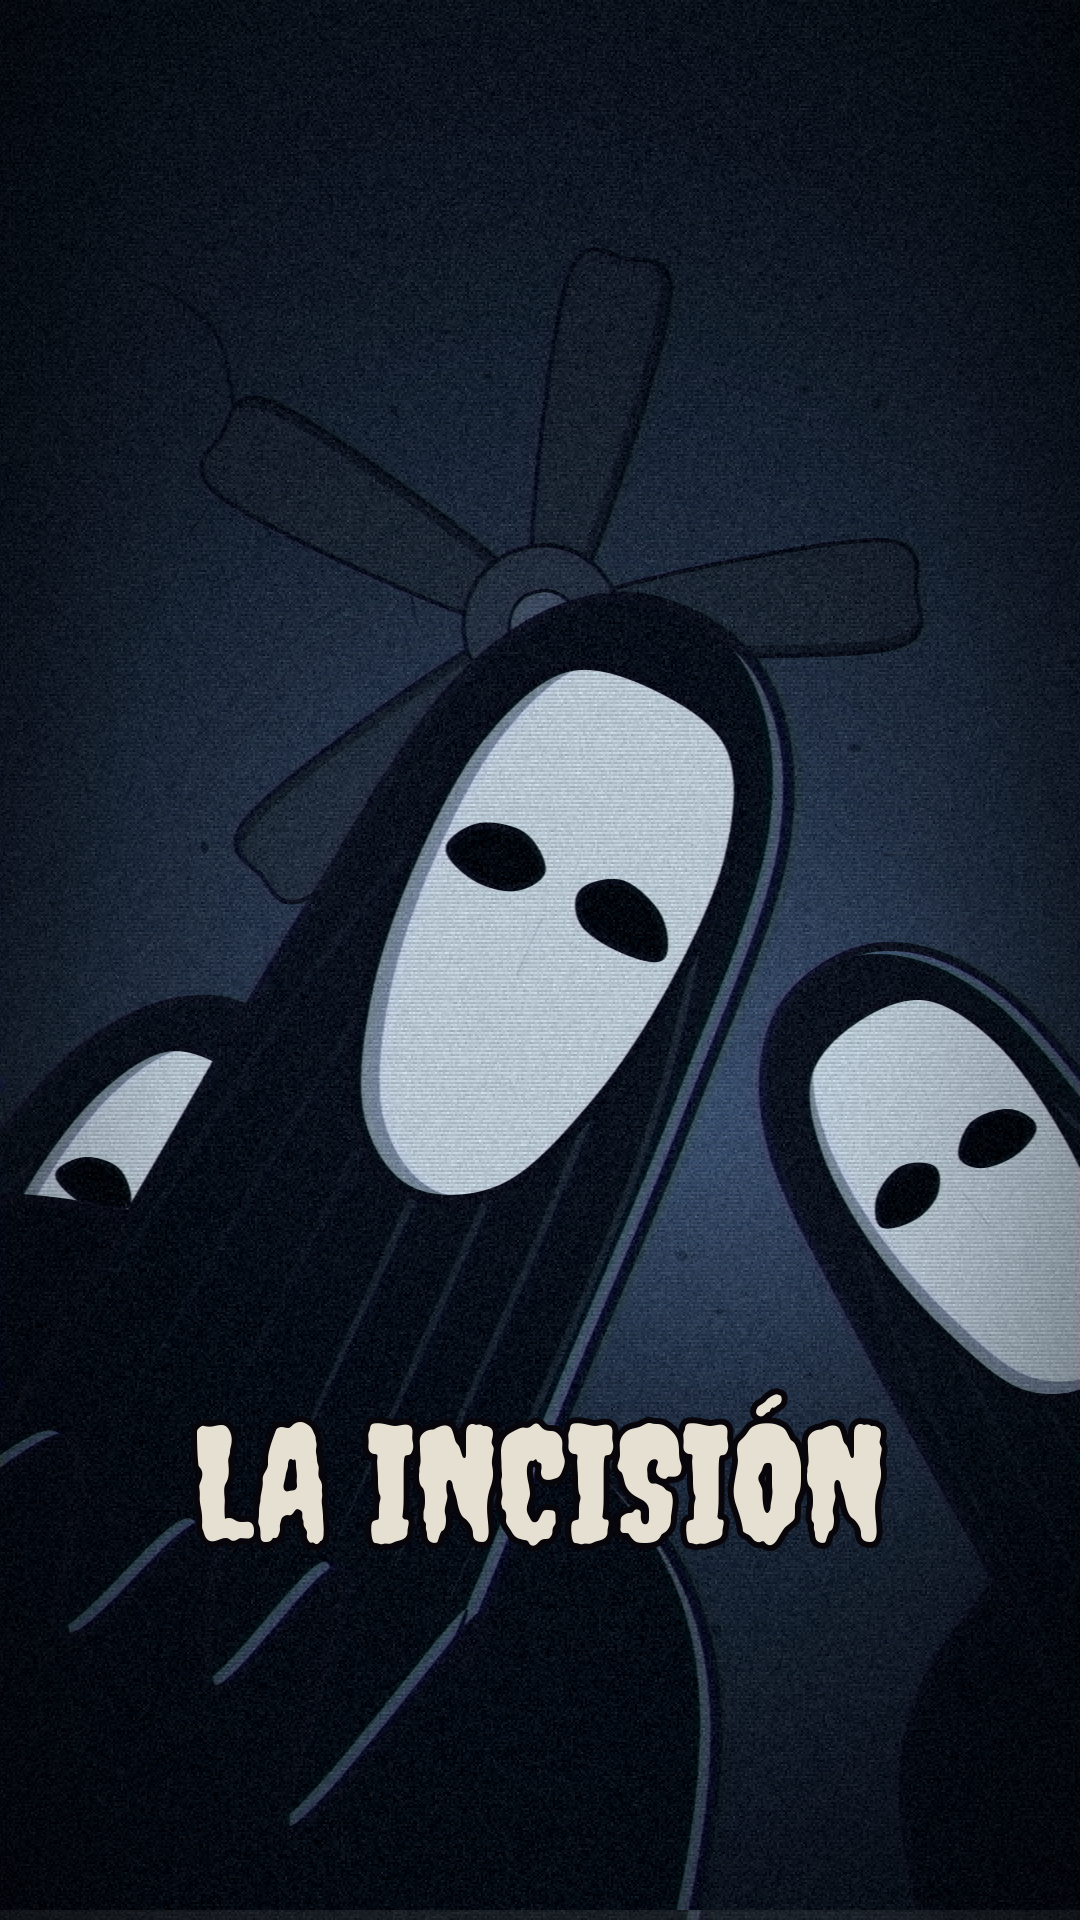
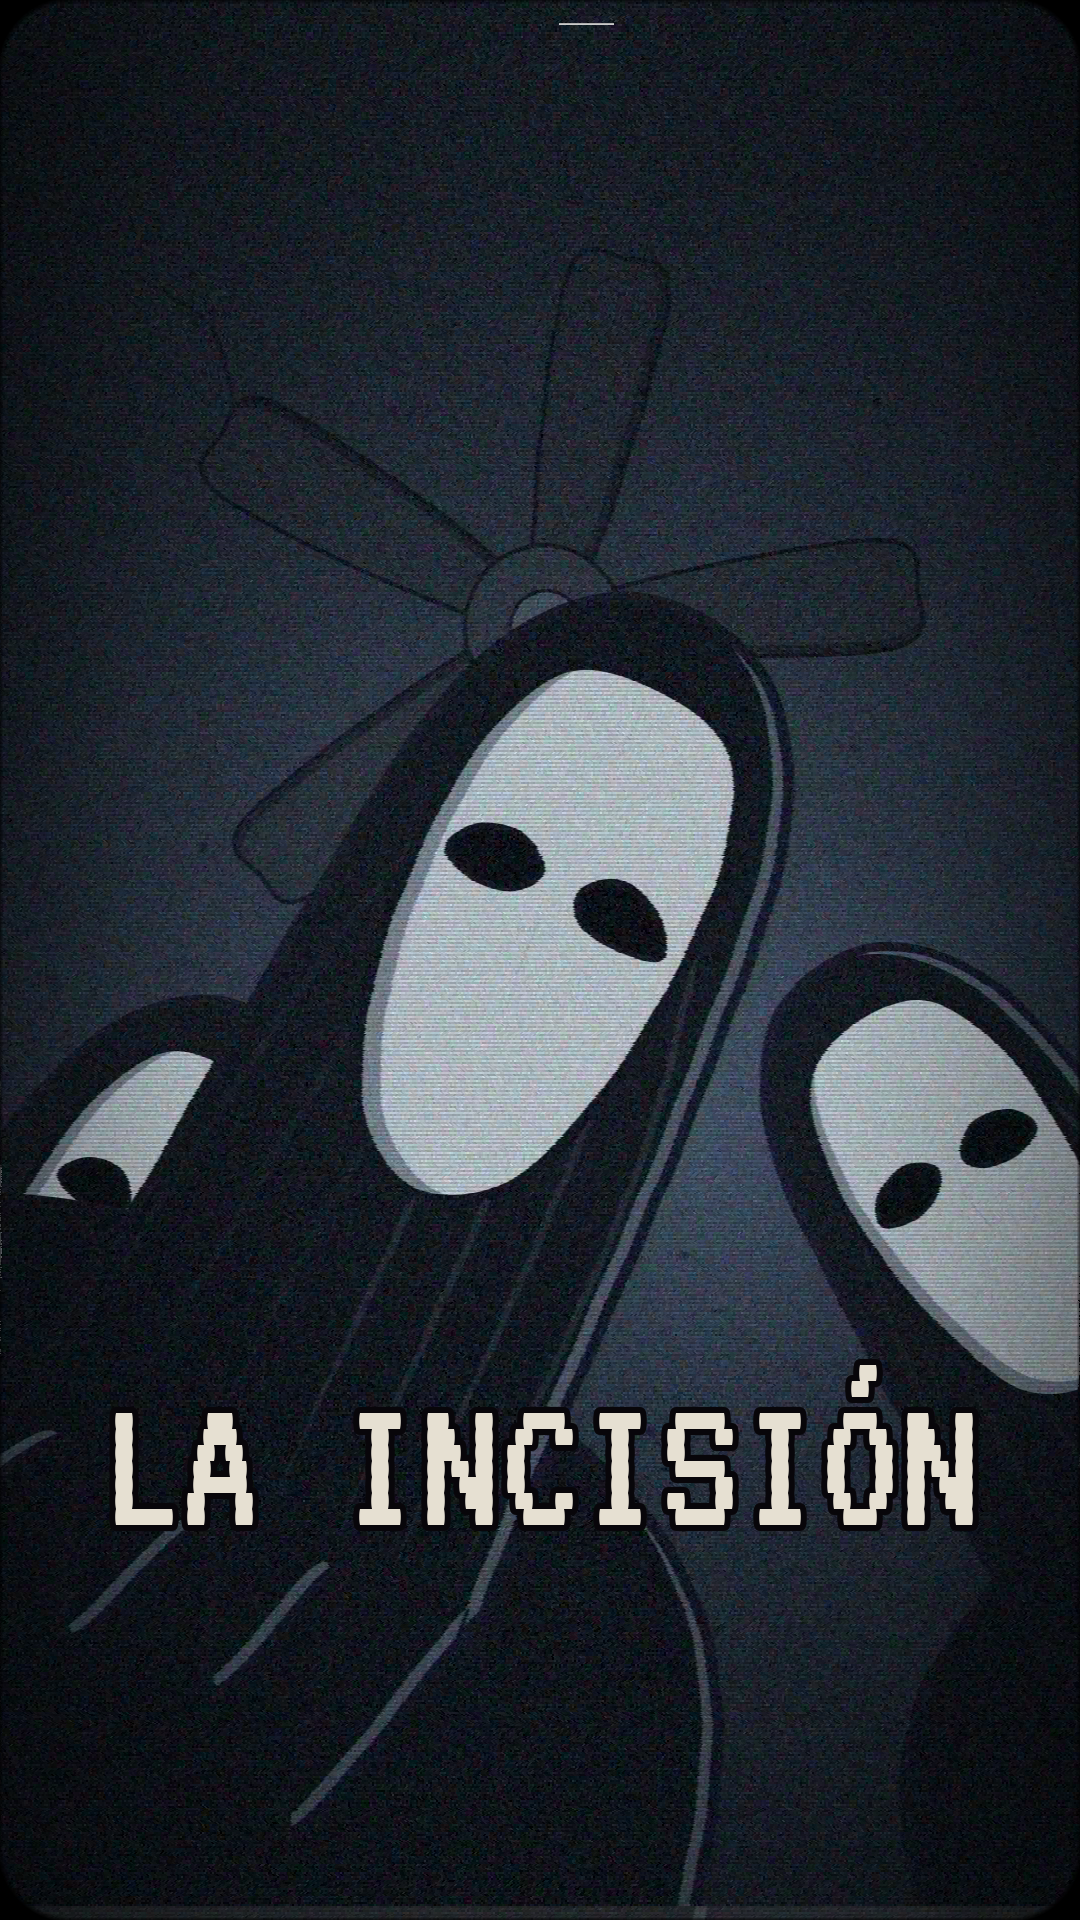
Agrega la exportación ligera y la portada con letra de videocasetera
--ligero saca una versión de menos de 30 MB a 720p (dos pasadas) con los
planos y el sonido ya renderizados, y el render completo la genera al final.

Claude-Session: https://claude.ai/code/session_01BMYAd4ApCWMZLPhwBwc1B7

diff --git a/la-incision/animacion/render.py b/la-incision/animacion/render.py
@@ -9,6 +9,7 @@ Uso (desde la carpeta la-incision):
     python3 animacion/render.py --fotos          # hoja de contactos con un cuadro de cada plano
     python3 animacion/render.py --solo-audio     # vuelve a mezclar el sonido sobre los planos ya hechos
     python3 animacion/render.py --portada        # portada para TikTok → portada-tiktok.png
+    python3 animacion/render.py --ligero         # versión de menos de 30 MB con los planos ya hechos
 
 Necesita Python 3 con numpy, scipy, pycairo y Pillow (pip install numpy scipy pycairo pillow) y ffmpeg.
 Las duraciones salen de plan.json. Además de los planos del guion, la cinta lleva un gancho de 1.5 s para
@@ -203,6 +204,18 @@ def portada(ancho, salida):
     return salida
 
 
+def ligero(ffmpeg, lista, audio, salida, duracion, megas=28):
+    """Versión de menos de 30 MB (720×1280, dos pasadas) para mandarla por chat o WhatsApp."""
+    kbps = int(megas * 8192 / duracion) - 128
+    base = [ffmpeg, "-hide_banner", "-loglevel", "error", "-y", "-f", "concat", "-safe", "0", "-i", str(lista)]
+    video = ["-vf", "scale=720:1280:flags=bicubic", "-c:v", "libx264", "-preset", "medium", "-b:v", f"{kbps}k",
+             "-pix_fmt", "yuv420p", "-r", str(FPS), "-passlogfile", str(BUILD / "ligero")]
+    subprocess.run(base + video + ["-pass", "1", "-an", "-f", "mp4", os.devnull], check=True)
+    subprocess.run(base + ["-i", str(audio)] + video + ["-pass", "2", "-c:a", "aac", "-b:a", "128k", "-shortest",
+                                                         "-movflags", "+faststart", str(salida)], check=True)
+    return salida
+
+
 def main():
     parser = argparse.ArgumentParser(description=__doc__, formatter_class=argparse.RawDescriptionHelpFormatter)
     parser.add_argument("--ancho", type=int, default=720,
@@ -212,6 +225,8 @@ def main():
     parser.add_argument("--momentos", type=float, nargs="*", default=[0.5], help="momentos (0..1) para --fotos")
     parser.add_argument("--solo-audio", action="store_true", help="solo rehace el sonido y el montaje")
     parser.add_argument("--portada", action="store_true", help="solo la portada para TikTok (PNG)")
+    parser.add_argument("--ligero", action="store_true",
+                        help="solo la versión de menos de 30 MB a partir de los planos y el sonido ya hechos")
     parser.add_argument("--procesos", type=int, default=os.cpu_count() or 2)
     parser.add_argument("--salida", type=Path, default=RAIZ / "la-incision-animada.mp4")
     args = parser.parse_args()
@@ -236,7 +251,7 @@ def main():
     carpeta = BUILD / f"planos-{args.ancho}"
     carpeta.mkdir(exist_ok=True)
     archivo = {ident: carpeta / f"{i:02d}-{ident.replace('í', 'i')}.mp4" for i, (ident, _, _) in enumerate(linea)}
-    if not args.solo_audio:
+    if not args.solo_audio and not args.ligero:
         trabajos = [(ident, ini, dur, args.ancho, archivo[ident], ffmpeg) for ident, ini, dur in elegidos]
         trabajos.sort(key=lambda x: -x[2])
         t0 = time.time()
@@ -253,10 +268,17 @@ def main():
         sys.exit(f"Faltan planos por renderizar: {', '.join(faltan)}")
     import sonido
     audio = BUILD / "sonido.wav"
-    print("Sintetizando el sonido…", flush=True)
-    sonido.generar(linea, audio)
     lista = BUILD / "lista.txt"
     lista.write_text("".join(f"file '{archivo[ident].as_posix()}'\n" for ident, _, _ in linea), encoding="utf-8")
+    duracion = sum(d for _, _, d in linea)
+    salida_ligera = args.salida.with_name(args.salida.stem + "-ligera.mp4")
+    if args.ligero:
+        if not audio.is_file():
+            sonido.generar(linea, audio)
+        print(f"Listo: {ligero(ffmpeg, lista, audio, salida_ligera, duracion)}")
+        return
+    print("Sintetizando el sonido…", flush=True)
+    sonido.generar(linea, audio)
     comando = [ffmpeg, "-hide_banner", "-loglevel", "error", "-y", "-f", "concat", "-safe", "0", "-i", str(lista),
                "-i", str(audio)]
     if args.ancho != 1080:
@@ -267,6 +289,7 @@ def main():
                 "-movflags", "+faststart", str(args.salida)]
     subprocess.run(comando, check=True)
     print(f"Listo: {args.salida}")
+    print(f"Versión ligera: {ligero(ffmpeg, lista, audio, salida_ligera, duracion)}")
 
 
 if __name__ == "__main__":

diff --git a/la-incision/animacion/README.md b/la-incision/animacion/README.md
@@ -34,9 +34,10 @@ python3 animacion/render.py --fotos         # hoja de contactos con un cuadro de
 python3 animacion/render.py --planos 3A 3B  # solo esos planos (para probar cambios)
 python3 animacion/render.py --solo-audio    # rehace el sonido sin volver a dibujar
 python3 animacion/render.py --portada       # portada para TikTok → portada-tiktok.png
+python3 animacion/render.py --ligero        # versión de menos de 30 MB (720p) con lo ya renderizado
 ```
 
-Los planos se dibujan en paralelo (uno por núcleo) y se guardan en `animacion/build/`. Con 4 núcleos el corto completo tarda unos 10 minutos. El video final se limita a unos 7 Mbps (unos 100 MB) para que se pueda subir a TikTok desde el celular. Las duraciones de los planos salen de `plan.json`, así que si cambias el `uso` de un plano, la animación se ajusta.
+Los planos se dibujan en paralelo (uno por núcleo) y se guardan en `animacion/build/`. Con 4 núcleos el corto completo tarda unos 10 minutos. El video final se limita a unos 7 Mbps (unos 100 MB) para que se pueda subir a TikTok desde el celular, y junto a él sale `la-incision-animada-ligera.mp4`, de menos de 30 MB, para mandarlo por chat. Las duraciones de los planos salen de `plan.json`, así que si cambias el `uso` de un plano, la animación se ajusta.
 
 ## Archivos
 
